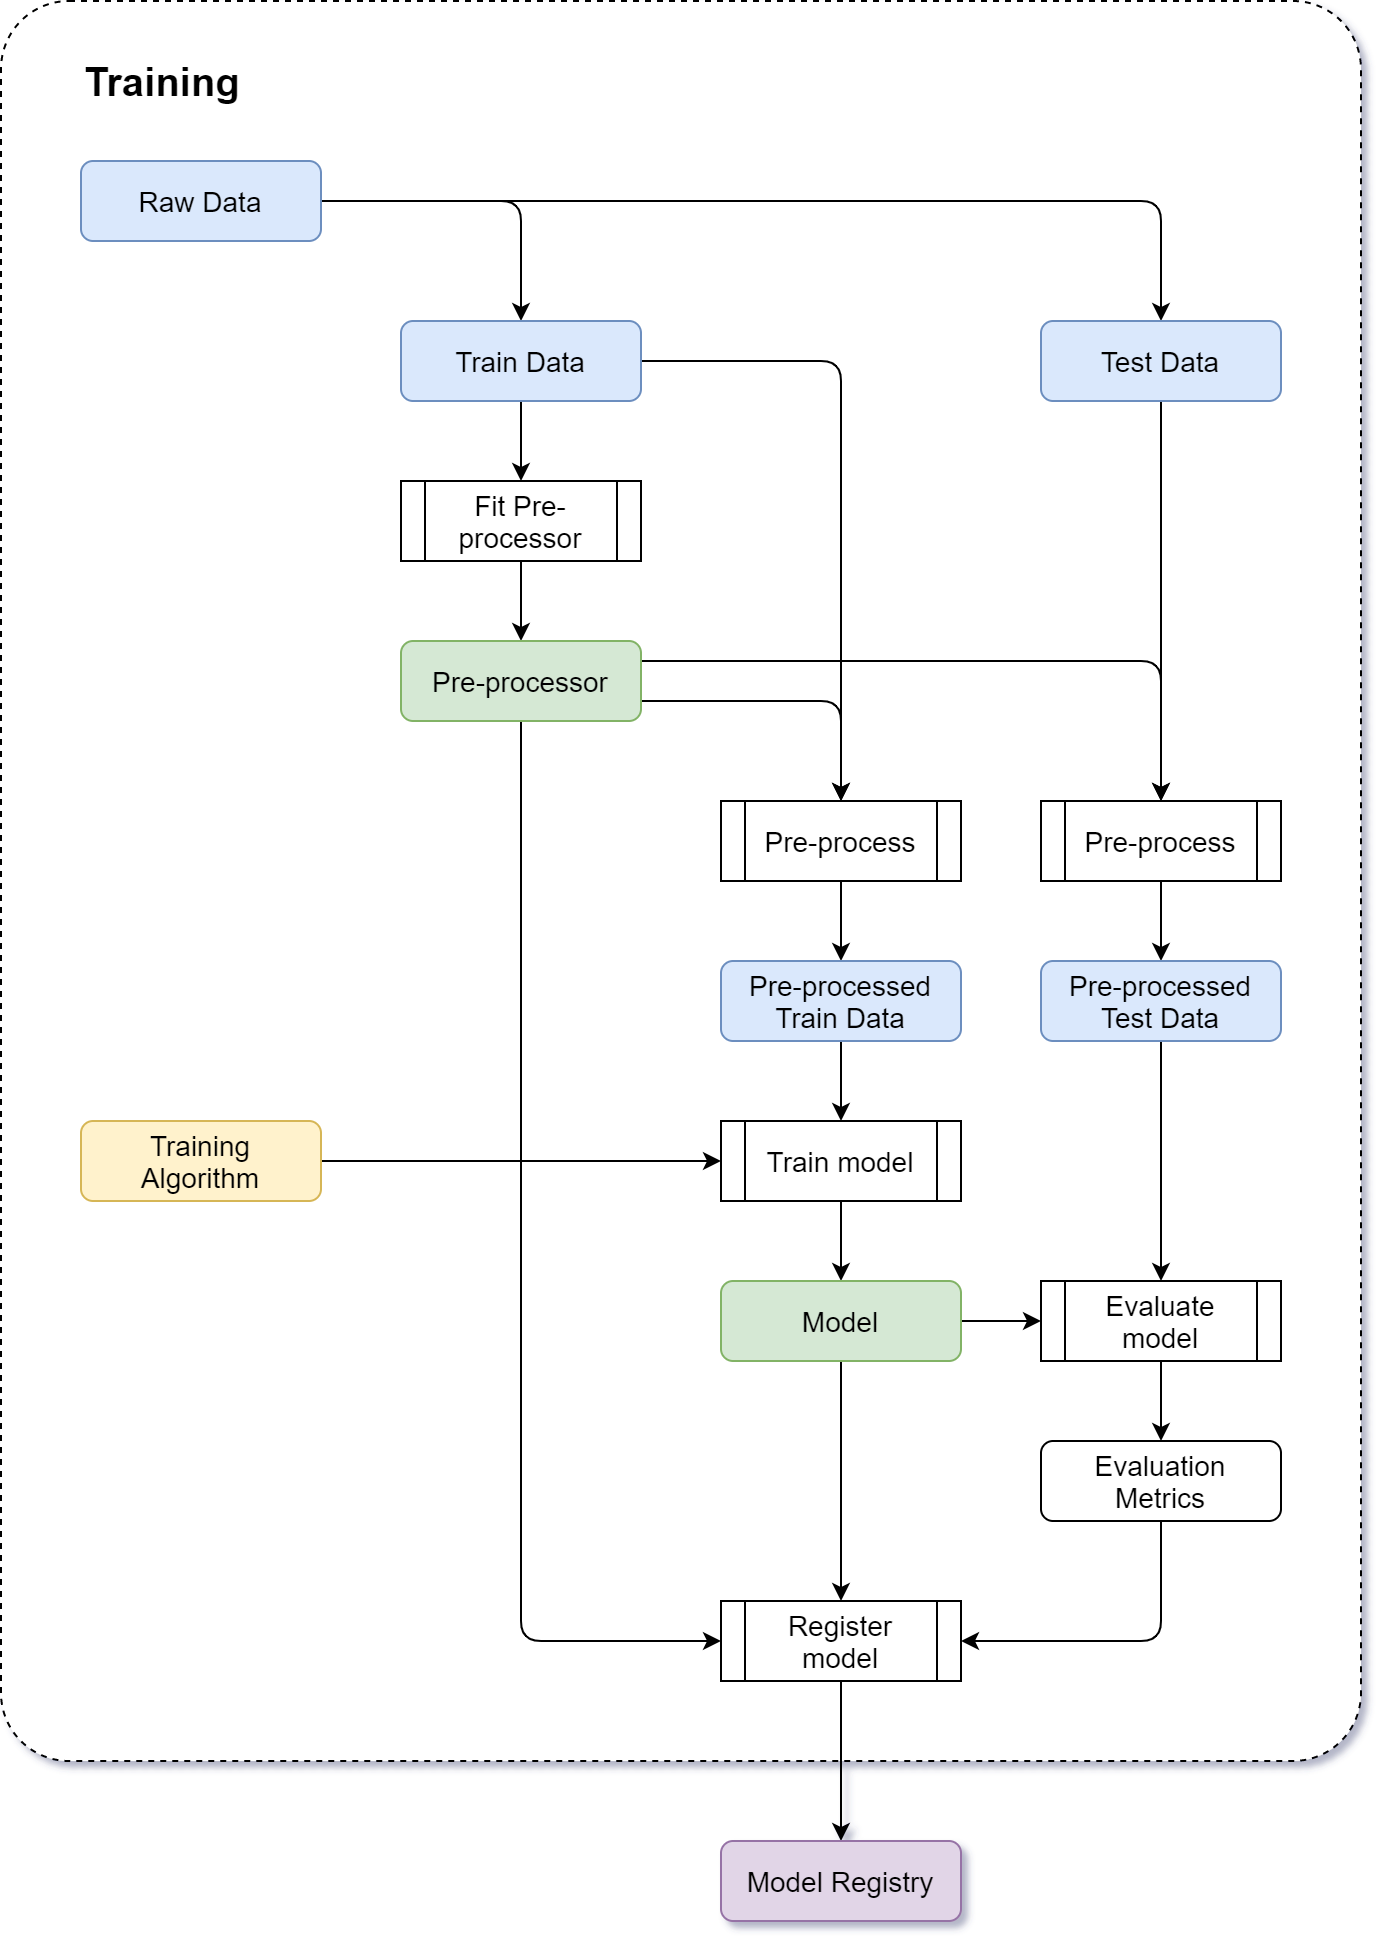
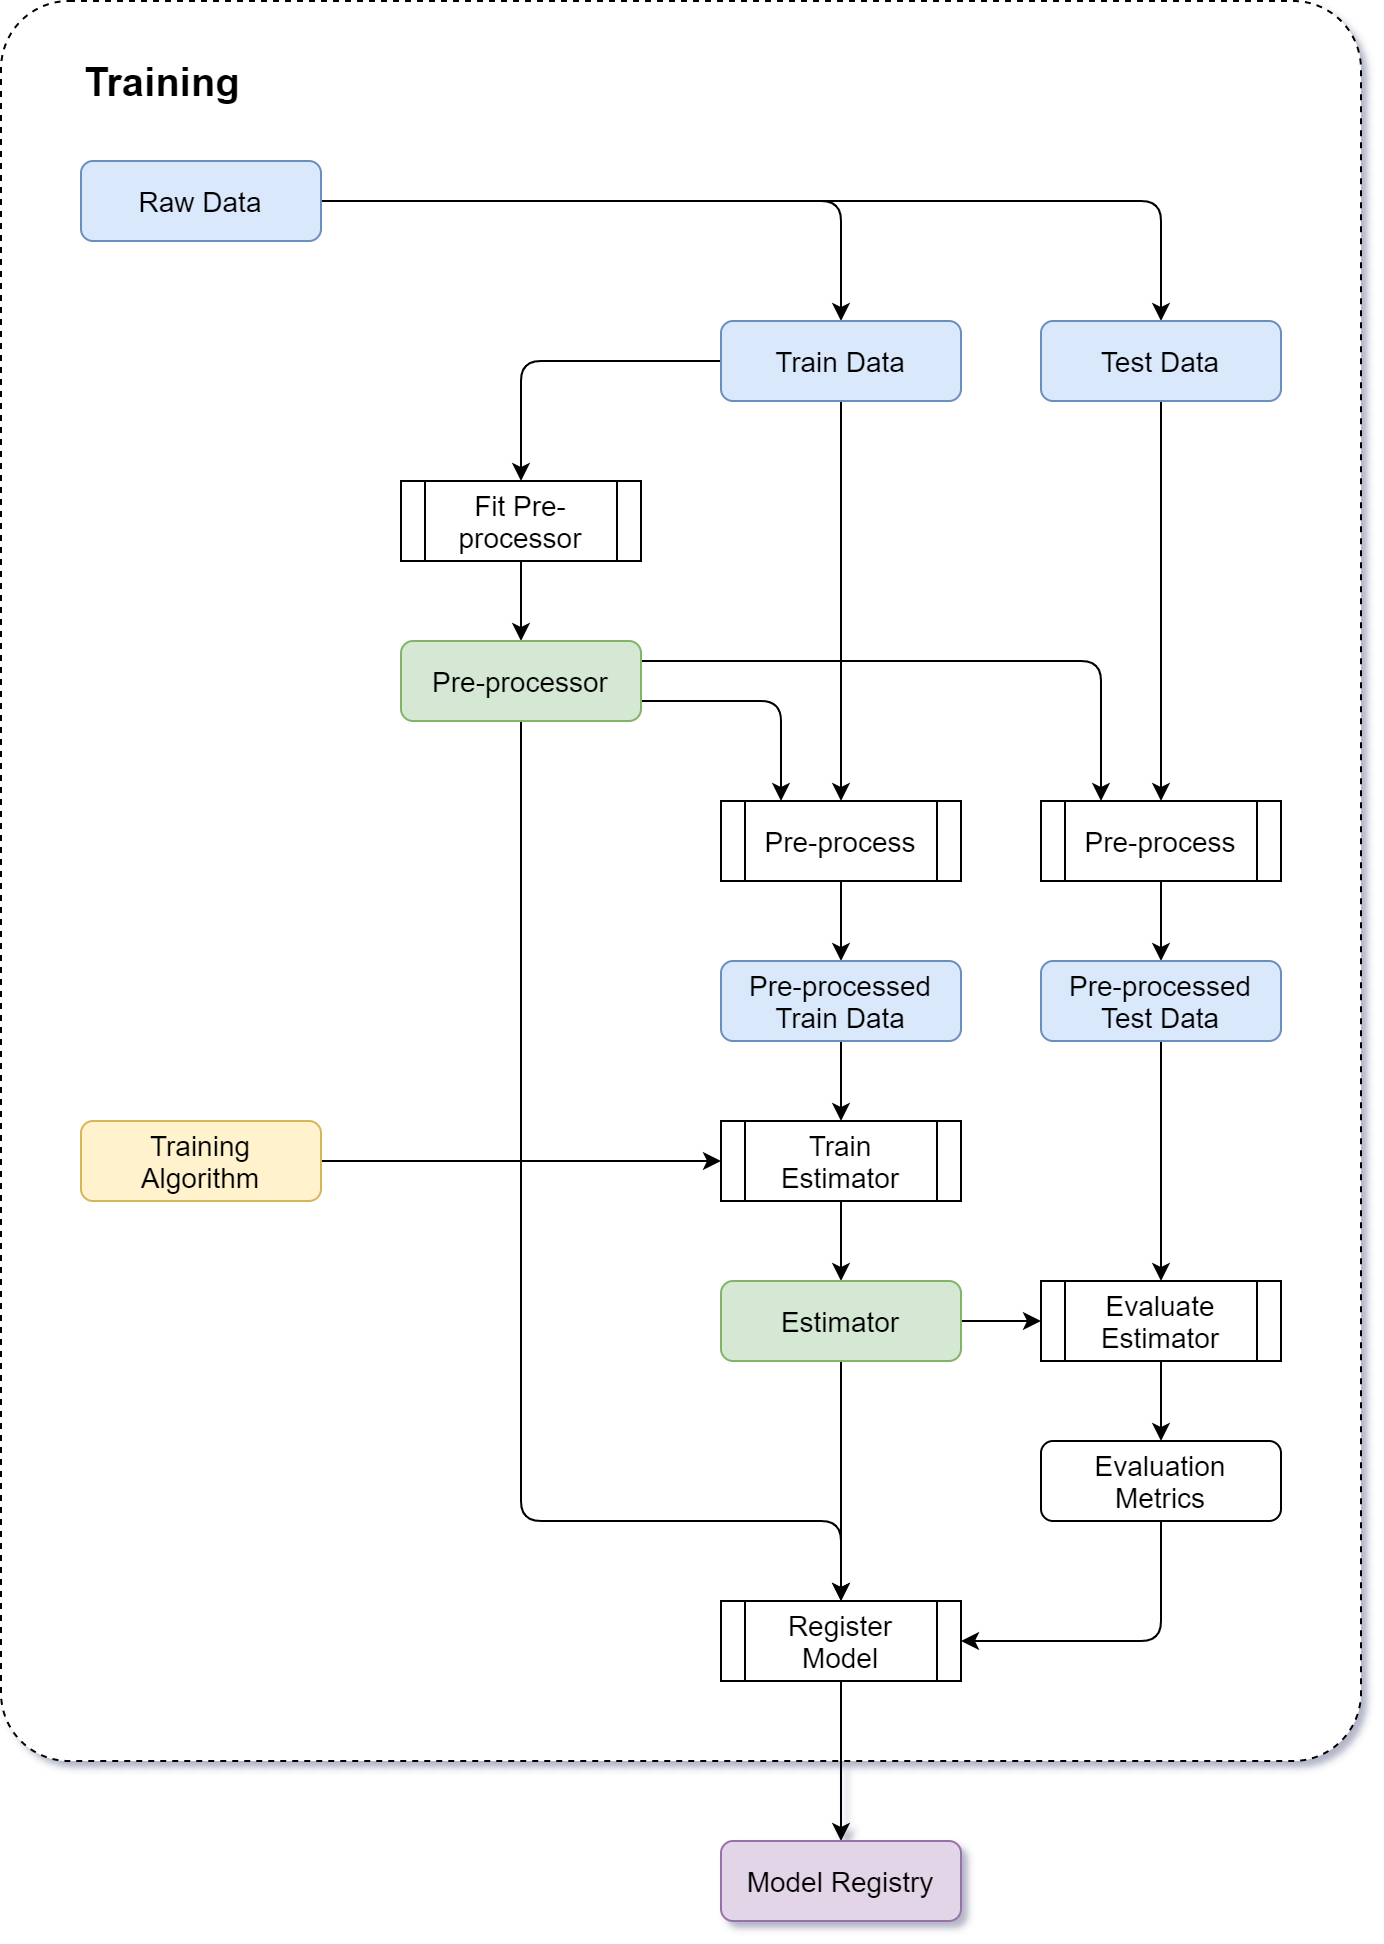
Updated process flow diagrams

diff --git a/docs/source/getting_started/ml_process.rst b/docs/source/getting_started/ml_process.rst
@@ -4,23 +4,121 @@
 Machine Learning Process
 ========================
 
-The processes that we aim to cover with MyAutoML are as follows:
+The main two processes that we aim to cover with MyAutoML are the training and predicting processes. They are two
+separate processes, one for training a model and one for making predictions using a trained model. Each process is
+executed by running a Python script, e.g. :code:`train.py` and :code:`predict.py`. This can be as simple or as complex
+as you like: you can run the scripts manually (you can even run the code from a Jupyter notebook), or as an automated
+script in a Docker container on a Kubernetes platform scheduled by Airflow.
+
+
+Training
+--------
+
+The purpose of the training process is to start with some data, process it with a certain algorithm and produce a
+model that captures the interesting patterns in the training data.
 
 .. figure:: ../images/training-process.png
     :width: 100%
     :align: center
 
-and
+
+Predicting
+----------
+
+The goal of the prediction process is to use a (trained) model and apply it to some new data to make predictions.
+A prediction script can make predictions for a batch of items, or it can spawn an API for real-time, on-demand
+predictions.
 
 .. figure:: ../images/prediction-process.png
     :width: 100%
     :align: center
 
-There are two separate processes, one for training a model and one for making predictions. Each process is executed
-by running a Python script, e.g. :code:`train.py` and :code:`predict.py`. This can be as simple or as complex as you
-like: you can run the scripts manually (you can even run the code from a Jupyter notebook), or as an automated script
-in a Docker container on a Kubernetes platform scheduled by Airflow. A prediction script can make predictions for a
-batch of items, or it can spawn an API for real-time, on-demand predictions.
+
+Calibrating
+-----------------
+
+In some classification use cases we need to `calibrate <https://scikit-learn.org/stable/modules/calibration.html>`_
+the output of our models to actual probabilities, rather than generic scores. While sometimes this can be done
+directly in the training process, in other cases it is more pragmatic to train a model first, and perform the
+calibration separately using the following process:
+
+.. figure:: ../images/calibrating-process.png
+    :width: 100%
+    :align: center
+
+
+Further reading
+---------------
+
+.. raw:: html
+
+    <div class="container">
+    <div id="accordion" class="shadow tutorial-accordion">
+
+        <div class="card tutorial-card">
+            <div class="card-header collapsed card-link" data-toggle="collapse" data-target="#collapse_1">
+                <div class="d-flex flex-row tutorial-card-header-1">
+                    <div class="d-flex flex-row tutorial-card-header-2">
+                        <button class="btn btn-dark btn-sm"></button>
+                        Training a model
+                    </div>
+                </div>
+            </div>
+            <div id="collapse_1" class="collapse" data-parent="#accordion">
+                <div class="card-body">
+
+`Wikipedia: Training, validation, and test sets
+<https://en.wikipedia.org/wiki/Training,_validation,_and_test_sets/>`_
+
+`Machine Learning Mastery: How to Use ROC Curves and Precision-Recall Curves for Classification in Python
+<https://machinelearningmastery.com/roc-curves-and-precision-recall-curves-for-classification-in-python/>`_
+
+.. raw:: html
+
+                </div>
+            </div>
+        </div>
+        <div class="card tutorial-card">
+            <div class="card-header collapsed card-link" data-toggle="collapse" data-target="#collapse_2">
+                <div class="d-flex flex-row tutorial-card-header-1">
+                    <div class="d-flex flex-row tutorial-card-header-2">
+                        <button class="btn btn-dark btn-sm"></button>
+                        Making predictions
+                    </div>
+                </div>
+            </div>
+            <div id="collapse_2" class="collapse" data-parent="#accordion">
+                <div class="card-body">
+
+.. raw:: html
+
+                </div>
+            </div>
+        </div>
+        <div class="card tutorial-card">
+            <div class="card-header collapsed card-link" data-toggle="collapse" data-target="#collapse_3">
+                <div class="d-flex flex-row tutorial-card-header-1">
+                    <div class="d-flex flex-row tutorial-card-header-2">
+                        <button class="btn btn-dark btn-sm"></button>
+                        Model calibration
+                    </div>
+                </div>
+            </div>
+            <div id="collapse_3" class="collapse" data-parent="#accordion">
+                <div class="card-body">
+
+`Machine Learning Mastery: How and When to Use a Calibrated Classification Model with scikit-learn
+<https://machinelearningmastery.com/calibrated-classification-model-in-scikit-learn/>`_
+
+.. raw:: html
+
+                </div>
+            </div>
+        </div>
+
+    </div>
+    </div>
+
 
 .. toctree::
     :maxdepth: 2

diff --git a/docs/source/user_guide/glossary.rst b/docs/source/user_guide/glossary.rst
@@ -1,0 +1,79 @@
+.. _glossary:
+
+========
+Glossary
+========
+
+.. _estimator:
+
+Estimator
+---------
+
+An estimator is any object that learns from data. Most typically these are classification, regression and clustering
+algorithms.
+
+See the `Scikit-Learn estimator
+<https://scikit-learn.org/stable/tutorial/statistical_inference/settings.html#estimators-objects>`_.
+
+
+.. _model:
+
+Model
+-----
+
+What exactly is a model? In MyAutoML we view a model as something that we can apply to data to make predictions.
+
+.. figure:: ../images/modelling.png
+    :width: 65%
+    :align: center
+
+Normally the raw data we start off with requires some preprocessing, before it can be used as input for the prediction
+algorithm (see the training and predicting processes above). Therefore we view a model as a :ref:`pipeline` containing
+a preprocessor and an estimator:
+
+.. figure:: ../images/model.png
+    :width: 45%
+    :align: center
+
+
+.. _model_registry:
+
+Model Registry
+--------------
+
+A model registry is a tool to keep track of your models. Ideally it serves both as a log for your data science
+experiments (keeping track of all the variations of models you've trained, along with key metrics indicating model
+performance), and as a store for serving models to prediction processes.
+
+:ref:`MLflow has modules supporting these functions <model-registry-mlflow>`, namely the MLflow Tracking Server and
+the MLflow Model Registry respectively.
+
+
+.. _pipeline:
+
+Pipeline
+--------
+
+A pipeline is a sequence of operations to be carried out on a dataset.
+
+See the `Scikit-Learn Pipeline
+<https://scikit-learn.org/stable/modules/generated/sklearn.pipeline.Pipeline.html>`_.
+
+
+.. _pre_processor:
+
+Pre-processor
+-------------
+
+A pre-processor is any object that transforms a raw data set into a form that can be used with an :ref:`estimator`. A
+pre-processor often takes the form of a :ref:`pipeline` containing multiple transformation steps.
+
+See for example the `Scikit-Learn ColumnTransformer
+<https://scikit-learn.org/stable/modules/generated/sklearn.compose.ColumnTransformer.html>`_
+and the `Scikit-Learn preprocessing module
+<https://scikit-learn.org/stable/modules/classes.html#module-sklearn.preprocessing>`_.
+
+
+.. toctree::
+    :maxdepth: 2
+    :hidden:

diff --git a/docs/source/getting_started/index.rst b/docs/source/getting_started/index.rst
@@ -59,7 +59,7 @@ Quick questions
     <div id="accordion" class="shadow tutorial-accordion">
 
         <div class="card tutorial-card">
-            <div class="card-header collapsed card-link" data-toggle="collapse" data-target="#collapseOne">
+            <div class="card-header collapsed card-link" data-toggle="collapse" data-target="#collapse_1">
                 <div class="d-flex flex-row tutorial-card-header-1">
                     <div class="d-flex flex-row tutorial-card-header-2">
                         <button class="btn btn-dark btn-sm"></button>
@@ -67,14 +67,14 @@ Quick questions
                     </div>
                     <span class="badge gs-badge-link">
 
-:ref:`Installation...<install>`
+:ref:`install`
 
 .. raw:: html
 
                     </span>
                 </div>
             </div>
-            <div id="collapseOne" class="collapse" data-parent="#accordion">
+            <div id="collapse_1" class="collapse" data-parent="#accordion">
                 <div class="card-body">
 
 The simplest way to install MyAutoML is to from `PyPI <https://pypi.org/project/myautoml>`_ via pip:
@@ -82,6 +82,32 @@ The simplest way to install MyAutoML is to from `PyPI <https://pypi.org/project/
 .. code-block:: bash
 
     pip install myautoml
+
+.. raw:: html
+
+                </div>
+            </div>
+        </div>
+        <div class="card tutorial-card">
+            <div class="card-header collapsed card-link" data-toggle="collapse" data-target="#collapse_2">
+                <div class="d-flex flex-row tutorial-card-header-1">
+                    <div class="d-flex flex-row tutorial-card-header-2">
+                        <button class="btn btn-dark btn-sm"></button>
+                        Glossary
+                    </div>
+                    <span class="badge gs-badge-link">
+
+:ref:`glossary`
+
+.. raw:: html
+
+                    </span>
+                </div>
+            </div>
+            <div id="collapse_2" class="collapse" data-parent="#accordion">
+                <div class="card-body">
+
+In the User Guide we have included a :ref:`glossary`.
 
 .. raw:: html
 

diff --git a/docs/source/getting_started/environment.rst b/docs/source/getting_started/environment.rst
@@ -7,11 +7,23 @@ Environment
 To get the most out of MyAutoML you will need to install and setup several components in your environment for MyAutoML
 to work with. Please have a look at the :ref:`ml_process` to see where these components fit in.
 
+
+.. _model-registry-mlflow:
+
 Model Registry: MLflow
 ~~~~~~~~~~~~~~~~~~~~~~
 
-As a model registry we work with `MLflow <https://mlflow.org>`__. Please refer to the
-`installation instructions <https://mlflow.org/docs/latest/quickstart.html#installing-mlflow>`__ and
+As a model registry we work with `MLflow <https://mlflow.org>`__. MLflow has two separate modules helping us to keep
+a good record of our models:
+
+- MLflow Tracking
+- MLflow Model Registry
+
+In the :ref:`ml_process`, when we refer to a Model Registry, we mean both of these MLflow components above: every
+trained model is tracked in the MLflow Tracking Server. Additionally, some will be registered with a registered model
+name in the MLflow Model Registry. In the prediction process, a model is loaded from the MLflow Model Registry.
+
+Please refer to the `installation instructions <https://mlflow.org/docs/latest/quickstart.html#installing-mlflow>`__ and
 `MLflow Tracking Servers <https://mlflow.org/docs/latest/tracking.html#mlflow-tracking-servers>`__ to get you started.
 In order to use the MLflow Model Registry, you will need to setup an MLflow Tracking Server with a database Backend
 Store, such as SQLite or PostgreSQL.

diff --git a/docs/source/user_guide/index.rst b/docs/source/user_guide/index.rst
@@ -9,3 +9,5 @@ The User Guide covers all of MyAutoML by topic area.
 .. toctree::
     :maxdepth: 2
     :hidden:
+
+    glossary
